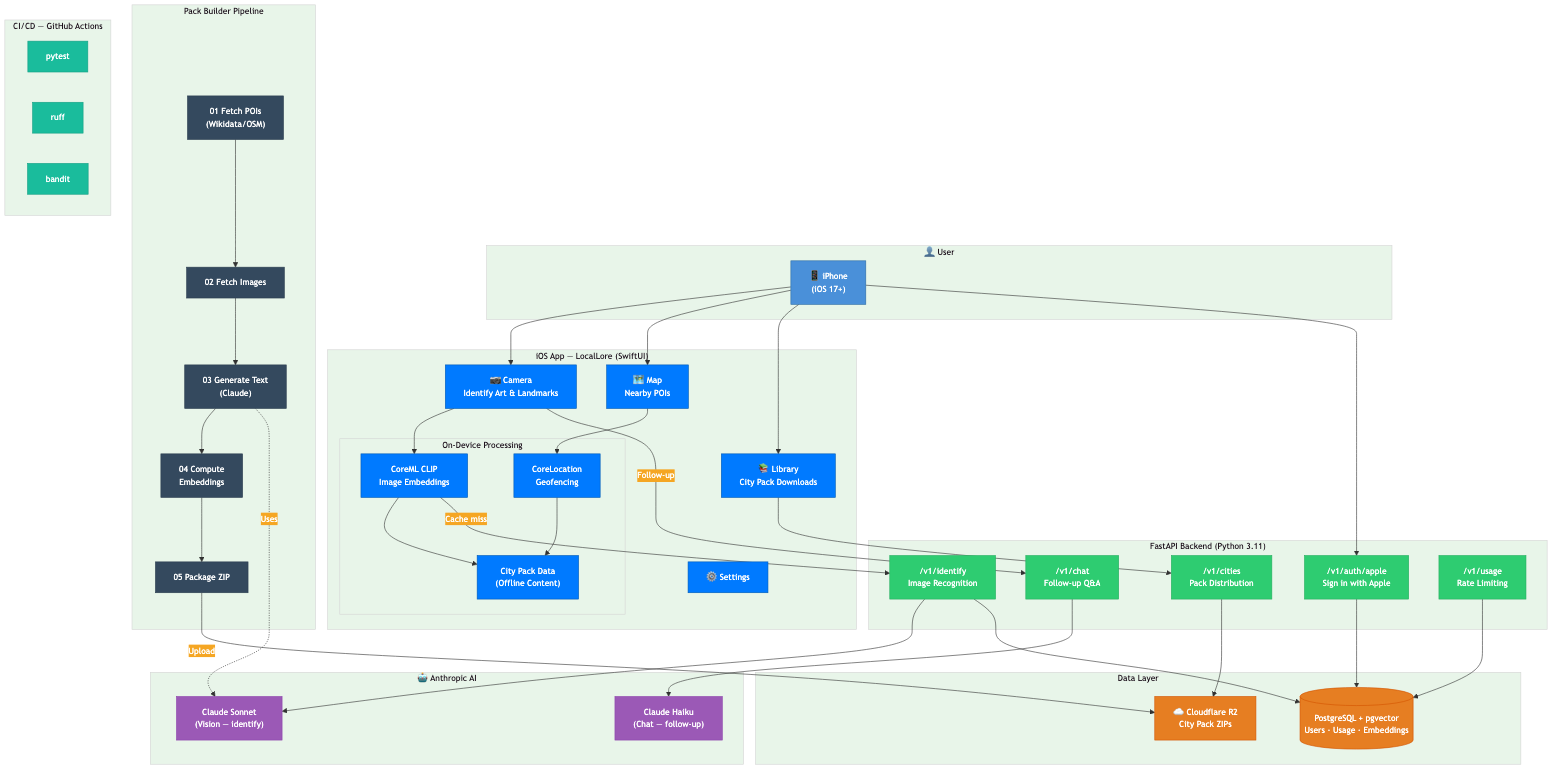
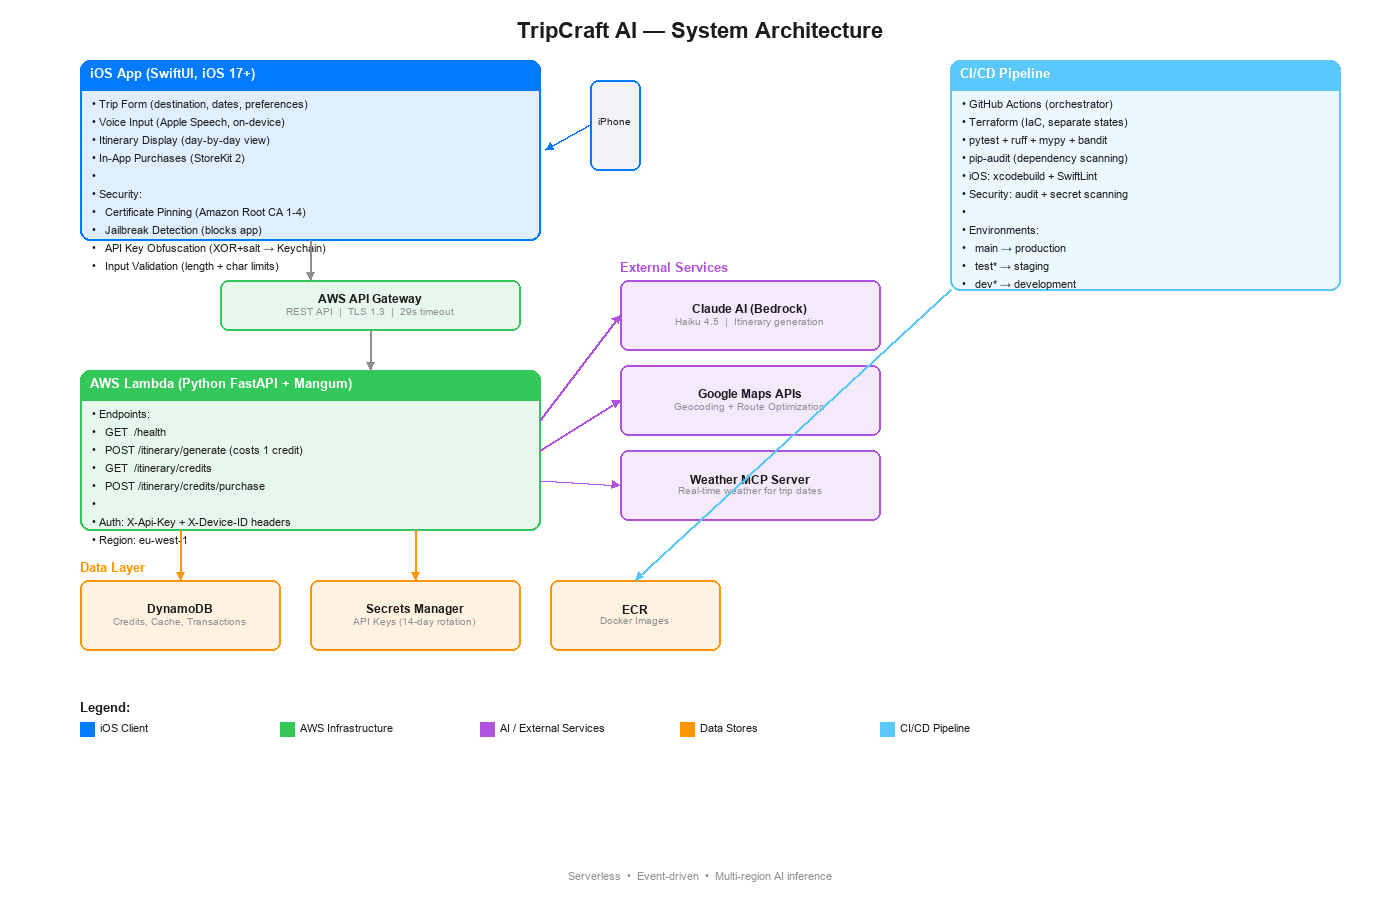
docs: rebrand to TripCraft AI with new README and diagrams
Complete README rewrite reflecting the new app identity:

- Rebrand from LocalLore to TripCraft AI
- New mobile UI mockup showing Plan/Itinerary/Credits screens
- New architecture diagram with serverless AWS stack
- Feature highlights: voice input, weather MCP, route optimization
- Security overview, pricing table, tech stack breakdown
- API reference, project structure, getting started guide
- Weather MCP integration section (coming soon)

The app is now an AI-powered travel itinerary planner, not a
camera-based tour guide.

diff --git a/README.md b/README.md
@@ -1,134 +1,231 @@
-# LocalLore
+<div align="center">
 
-An AI-powered tour guide app that turns sightseeing into a conversation. Point your camera at art or objects for instant identification. Walk near a building and GPS triggers its story. Cities are downloadable packs with pre-generated content so most interactions work offline.
+# ✈️ TripCraft AI
 
-## Architecture
+### Your Personal AI Travel Planner
+
+*Tell it where you want to go. Get a handcrafted, day-by-day itinerary in seconds.*
+
+[![iOS 17+](https://img.shields.io/badge/iOS-17%2B-blue?logo=apple)](https://developer.apple.com/ios/)
+[![Swift 5.9](https://img.shields.io/badge/Swift-5.9-orange?logo=swift)](https://swift.org)
+[![Python 3.11+](https://img.shields.io/badge/Python-3.11%2B-blue?logo=python)](https://python.org)
+[![AWS Lambda](https://img.shields.io/badge/AWS-Lambda-orange?logo=amazonaws)](https://aws.amazon.com/lambda/)
+[![Terraform](https://img.shields.io/badge/IaC-Terraform-purple?logo=terraform)](https://www.terraform.io)
+[![Claude AI](https://img.shields.io/badge/AI-Claude%20Haiku%204.5-blueviolet)](https://www.anthropic.com)
+
+</div>
+
+---
+
+## 🎯 What is TripCraft AI?
+
+TripCraft AI is an iOS app that generates **personalized travel itineraries** powered by Claude AI. No generic blog posts, no hours of research — just tell the app your destination, dates, budget, and interests, and get a complete trip plan with:
+
+- 🗓️ **Day-by-day schedules** with optimized walking routes
+- 🍽️ **Restaurant recommendations** matched to your dietary needs
+- 🏨 **Hotel suggestions** by neighborhood and price range
+- 🎒 **Packing tips** tailored to your destination and weather
+- 💰 **Cost estimates** so you know what to budget
+- 🎤 **Voice input** — speak your preferences instead of typing
+- 🌤️ **Weather-aware planning** via MCP integration
+
+---
+
+## 📱 App Interface
 
 <p align="center">
-  <img src="pics/architecture.png" alt="LocalLore Infrastructure Architecture" width="100%"/>
+  <img src="pics/mobile-ui.png" alt="TripCraft AI Mobile Interface" width="100%"/>
 </p>
 
-> Full system architecture — iOS app, FastAPI backend, Anthropic AI, data stores, pack builder pipeline, and CI/CD. Most interactions stay on-device; the backend is only called on cache misses or follow-up chat.
+> **Three screens, one flow**: Plan your trip → Get an AI-crafted itinerary → Manage credits. Voice input available on all text fields. No subscriptions — pay only when you plan.
 
-## App Interface
+---
+
+## 🏗️ Architecture
 
 <p align="center">
-  <img src="pics/mobile-ui.png" alt="LocalLore Mobile App Interface" width="100%"/>
+  <img src="pics/architecture.png" alt="TripCraft AI System Architecture" width="100%"/>
 </p>
 
-> Three core screens: **Camera** (identify artwork by pointing your phone), **Map** (GPS-triggered POI stories), and **Chat** (AI-powered follow-up questions about any identified item).
+> Fully serverless on AWS. The iOS app talks to API Gateway → Lambda → Bedrock (Claude AI) + Google Maps for route optimization. Weather data provided via MCP server for real-time trip planning.
 
-## How It Works
+---
 
-1. **Camera identification** — Snap a photo of a painting, sculpture, or landmark. The app matches it locally via CLIP embeddings; on miss, the backend calls Claude Sonnet vision.
-2. **GPS stories** — Walk within range of a POI and get a notification with its history. No network required for pre-cached content.
-3. **Follow-up chat** — Ask questions about any POI. Claude Haiku answers with the POI context loaded as system prompt.
-
-## Monorepo Structure
+## ⚡ How It Works
 
 ```
-ios/           SwiftUI app (iOS 17+, Swift 5.9) — XcodeGen managed
-backend/       Python 3.11+ FastAPI server — AI, auth, city pack distribution
-pack_builder/  Pipeline scripts to build city pack bundles
-docs/          Architecture diagrams and API reference
+┌─────────────┐     ┌──────────────┐     ┌─────────────────┐     ┌──────────────┐
+│  📱 iPhone  │────▶│  API Gateway │────▶│  Lambda (FastAPI)│────▶│  Claude AI   │
+│  (SwiftUI)  │◀────│  (TLS 1.3)  │◀────│  + Mangum       │◀────│  (Bedrock)   │
+└─────────────┘     └──────────────┘     └────────┬────────┘     └──────────────┘
+                                                   │
+                                          ┌────────┼────────┐
+                                          ▼        ▼        ▼
+                                     DynamoDB  Google    Weather
+                                     (credits  Maps     MCP Server
+                                      + cache) (routes)
 ```
 
-## Tech Stack
+1. **You plan** — Pick destination, dates, budget level, pace, interests, and dietary preferences
+2. **AI generates** — Claude Haiku 4.5 crafts a detailed itinerary based on your preferences
+3. **Routes optimize** — Google Maps API reorders activities for efficient walking routes
+4. **Weather adapts** — MCP server provides real-time weather data for smart scheduling
+5. **You explore** — Day-by-day breakdown with times, locations, costs, and durations
+
+---
+
+## 🛡️ Security
+
+TripCraft AI is built with security as a first-class concern:
+
+| Layer | Protection |
+|-------|-----------|
+| **Network** | TLS 1.3 only, certificate pinning (Amazon Root CA 1-4) |
+| **API Keys** | XOR+salt obfuscation → Keychain storage → memory wipe |
+| **Device** | Jailbreak detection (file checks + DYLD injection + writable paths) |
+| **Input** | Length limits, forbidden char filtering, prompt injection sanitization |
+| **Backend** | HMAC timing-safe auth, 14-day auto-rotating secrets |
+| **Payments** | StoreKit 2 with transaction replay prevention (DynamoDB conditional writes) |
+
+---
+
+## 💳 Pricing
+
+| Package | Credits | Price |
+|---------|---------|-------|
+| Single Trip | 1 | $1.99 |
+| **Explorer Pack** | 3 | **$4.99** |
+| Globetrotter | 10 | $9.99 |
+
+> **1 free trip** on first use. No subscriptions. Cache hits don't consume credits.
+
+---
+
+## 🧰 Tech Stack
 
 | Layer | Technology |
 |-------|-----------|
-| Mobile | SwiftUI, CoreML (CLIP), CoreLocation |
-| Backend | FastAPI, SQLAlchemy (async), Anthropic SDK |
-| AI | Claude Sonnet (vision), Claude Haiku (chat) |
-| Database | PostgreSQL + pgvector (Neon) |
-| Storage | Cloudflare R2 (city pack zips) |
-| Auth | Sign in with Apple |
-| CI | GitHub Actions (pytest, ruff, bandit) |
+| **iOS App** | SwiftUI • iOS 17+ • StoreKit 2 • Apple Speech • MVVM |
+| **Backend** | Python FastAPI • Mangum (Lambda adapter) • Pydantic |
+| **AI** | Claude Haiku 4.5 via AWS Bedrock (eu-west-1, cross-region) |
+| **Maps** | Google Maps Geocoding + Routes API (walking optimization) |
+| **Weather** | MCP Server (real-time weather data for trip dates) |
+| **Database** | DynamoDB (credits, cache, transactions) |
+| **Infra** | AWS Lambda • API Gateway (REST) • ECR • Secrets Manager |
+| **IaC** | Terraform (2 root modules with separate S3 state) |
+| **CI/CD** | GitHub Actions (orchestrator + reusable workflows) |
+| **Security** | bandit • pip-audit • SwiftLint • secret scanning |
 
-## Quick Start
+---
+
+## 📂 Project Structure
+
+```
+├── ios/                        SwiftUI app (iOS 17+)
+│   └── AISuggestionApp/
+│       ├── App/                Entry point, config
+│       ├── Models/             Codable request/response types
+│       ├── Services/           API client, Keychain, StoreKit, Speech
+│       ├── ViewModels/         Trip form + credits logic
+│       ├── Views/              SwiftUI screens + reusable components
+│       └── Utilities/          Security (obfuscation, pinning, jailbreak)
+│
+├── backend/                    Python serverless backend
+│   ├── src/app/
+│   │   ├── models/             Pydantic schemas (request, response, itinerary)
+│   │   ├── routers/            FastAPI route handlers
+│   │   ├── services/           Claude, credits, cache, route optimizer
+│   │   ├── prompts/            System prompt + templates
+│   │   └── middleware/         API key validation
+│   ├── infrastructure/
+│   │   └── terraform/          IaC (Lambda, API GW, DynamoDB, IAM)
+│   └── tests/                  pytest suite
+│
+├── .github/workflows/          CI/CD pipeline
+├── pics/                       Architecture + UI diagrams
+└── scripts/                    Diagram generators
+```
+
+---
+
+## 🚀 Getting Started
 
 ### Backend
 
 ```bash
 cd backend
-python -m venv .venv && source .venv/bin/activate
-pip install -r requirements.txt
-cp .env.example .env  # fill in ANTHROPIC_API_KEY, DATABASE_URL, R2_BUCKET_URL
-uvicorn app.main:app --reload
+uv sync                         # Install dependencies
+cp .env.example .env            # Configure AWS + Google Maps keys
+uv run uvicorn src.app.main:app --reload  # Local dev server
+uv run python -m pytest         # Run tests
 ```
-
-### Pack Builder
-
-```bash
-cd pack_builder
-pip install -e ".[dev]"
-python scripts/01_fetch_pois.py --city oslo
-python scripts/02_fetch_images.py --city oslo
-python scripts/03_generate_text.py --city oslo
-python scripts/04_compute_embeddings.py --city oslo
-python scripts/05_package.py --city oslo --version 1
-```
-
-Requires `ANTHROPIC_API_KEY` in a `.env` file for text generation (step 3).
 
 ### iOS
 
-Requires Xcode 16+ and macOS.
-
 ```bash
 cd ios
-brew install xcodegen  # if not already installed
-xcodegen generate
-open LocalLore.xcodeproj
+open AISuggestionApp.xcodeproj  # Open in Xcode
+# Build: ⌘B | Run: ⌘R | Test: ⌘U
 ```
 
-## API Endpoints
+> Requires Xcode 16+ and macOS. Set your API base URL in `AppConfiguration.swift`.
 
-| Method | Path | Description |
-|--------|------|-------------|
-| GET | `/health` | Health check |
-| GET | `/v1/cities` | List available city packs |
-| GET | `/v1/cities/{city}/pack` | Signed download URL for a city pack |
-| POST | `/v1/identify` | Identify artwork/landmark from image |
-| POST | `/v1/chat` | Follow-up conversation about a POI |
-| GET | `/v1/usage` | Free-tier quota status |
-| POST | `/v1/auth/apple` | Exchange Apple identity token for API token |
+---
 
-Full reference: [docs/api.md](docs/api.md)
+## 🔌 API Endpoints
 
-## City Pack Format
+| Method | Path | Auth | Description |
+|--------|------|------|-------------|
+| `GET` | `/health` | None | Health check |
+| `POST` | `/itinerary/generate` | API Key + Device ID | Generate trip itinerary (1 credit) |
+| `GET` | `/itinerary/credits` | API Key + Device ID | Check credit balance |
+| `POST` | `/itinerary/credits/purchase` | API Key + Device ID | Add credits after IAP |
 
-A versioned zip containing:
-- `manifest.json` — metadata (city, version, POI count)
-- `pois.json` — all POIs with pre-generated explanations
-- `embeddings.bin` — float32 array [N x 512] for CLIP matching
-- `images/` — reference images per POI
-- `audio/` — (optional) pre-generated TTS narration
-
-## Pilot Cities
-
-- **Oslo** (~80 POIs) — free
-- **Rome** (~150 POIs) — $2.99
-
-## CI/CD
-
-GitHub Actions runs on push to `main`/`dev`/`test` and all PRs:
-- **backend-test** — pytest
-- **backend-lint** — ruff
-- **security-scan** — bandit on all Python code
-- **pack-builder-lint** — ruff
-
-Run locally to mirror CI:
-
-```bash
-cd backend && ruff check . && bandit -r app/ && python -m pytest tests/
-cd ../pack_builder && ruff check scripts/
+### Required Headers
+```
+X-Api-Key: <rotated secret from AWS Secrets Manager>
+X-Device-ID: <8-128 char device identifier>
+Content-Type: application/json
 ```
 
-## Documentation
+---
 
-- [Architecture](docs/architecture.md)
-- [Infrastructure Diagram](pics/architecture.png)
-- [Mobile UI Mockup](pics/mobile-ui.png)
-- [API Reference](docs/api.md)
-- [Pack Builder Guide](pack_builder/README.md)
+## 🌤️ Weather MCP Integration
+
+TripCraft AI uses an MCP (Model Context Protocol) server to provide real-time weather data:
+
+- Fetches weather forecasts for the destination during trip dates
+- AI adjusts activity suggestions based on weather conditions
+- Indoor alternatives suggested for rainy days
+- Optimal times for outdoor activities based on temperature and conditions
+
+---
+
+## 🔄 CI/CD Pipeline
+
+```
+Setup → Test + Security + iOS Build → Initialize → ECR + Docker → Terraform Plan → Deploy
+```
+
+| Stage | What it does |
+|-------|-------------|
+| **Test** | pytest + ruff + mypy |
+| **Security** | pip-audit + bandit + secret scanning |
+| **iOS** | xcodebuild + SwiftLint + security audit |
+| **Deploy** | Docker → ECR → Terraform apply → Lambda update |
+
+---
+
+## 📄 License
+
+Private project. All rights reserved.
+
+---
+
+<div align="center">
+
+**Built with ❤️ using Claude AI, SwiftUI, and AWS**
+
+*TripCraft AI — Because every great trip starts with a great plan.*
+
+</div>